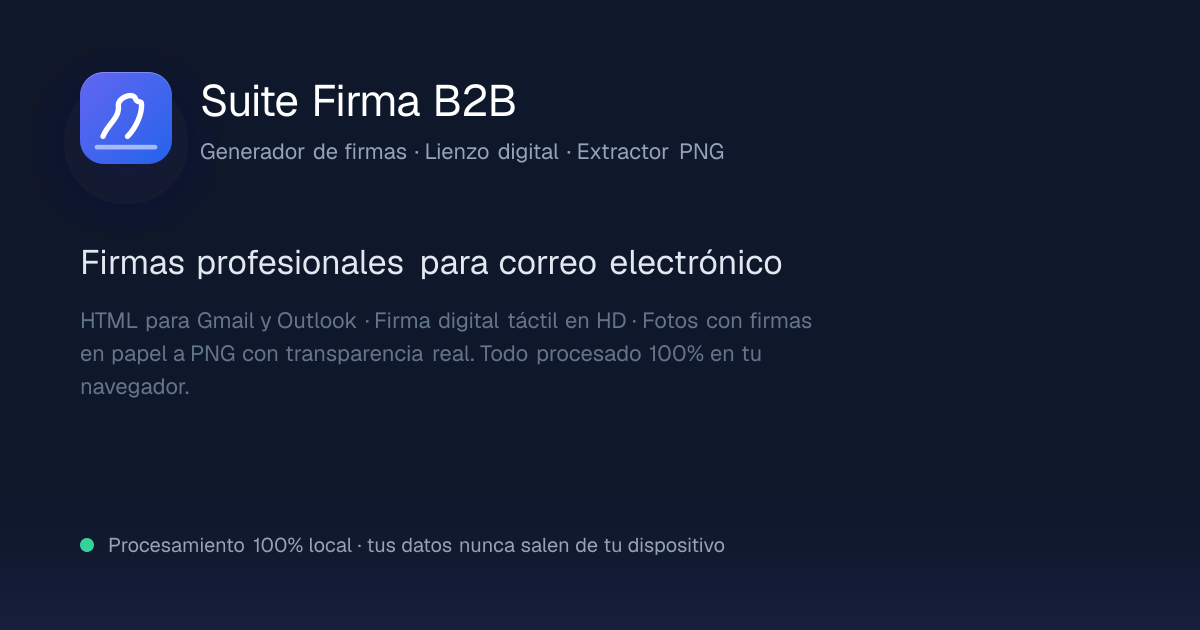
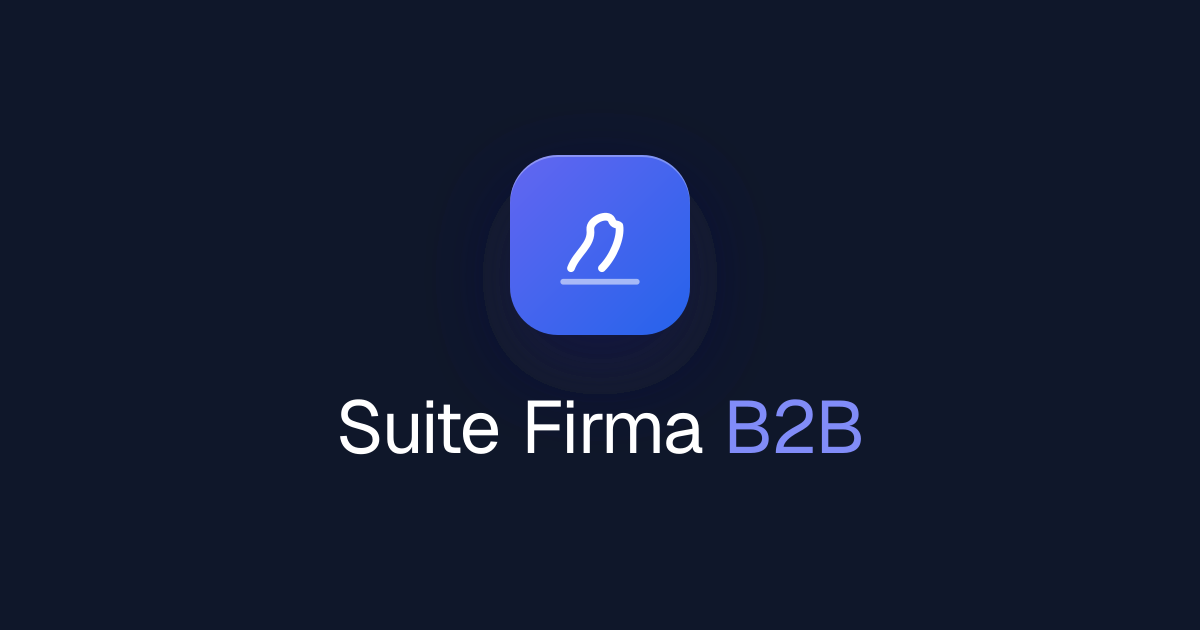
feat: tarjeta OG centrada con isotipo grande y título legible para WhatsApp

diff --git a/app/og.png/route.tsx b/app/og.png/route.tsx
@@ -3,27 +3,6 @@ import { ImageResponse } from "next/og";
 export const runtime = "nodejs";
 export const dynamic = "force-static";
 
-const Swoosh = (
-  <svg viewBox="0 0 120 120" width={92} height={92}>
-    <path
-      d="M30 84 C 36 68, 52 60, 50 44 C 49 34, 68 26, 72 34 C 74 40, 78 38, 80 40 C 82 52, 74 72, 62 84"
-      fill="none"
-      stroke="#ffffff"
-      strokeWidth={7}
-      strokeLinecap="round"
-      strokeLinejoin="round"
-    />
-    <path
-      d="M22 98 L 98 98"
-      fill="none"
-      stroke="#ffffff"
-      strokeOpacity={0.55}
-      strokeWidth={6}
-      strokeLinecap="round"
-    />
-  </svg>
-);
-
 export function GET() {
   return new ImageResponse(
     (
@@ -33,9 +12,10 @@ export function GET() {
           height: "100%",
           display: "flex",
           position: "relative",
+          flexDirection: "column",
+          alignItems: "center",
+          justifyContent: "center",
           backgroundColor: "#0f172a",
-          color: "#e2e8f0",
-          fontFamily: "sans-serif",
         }}
       >
         <div
@@ -43,110 +23,79 @@ export function GET() {
             position: "absolute",
             inset: 0,
             background:
-              "linear-gradient(180deg, rgba(99,102,241,0.18), transparent 45%), linear-gradient(90deg, rgba(37,99,235,0.1), transparent 60%)",
+              "radial-gradient(640px 340px at 50% 18%, rgba(99,102,241,0.22), transparent 72%)",
           }}
         />
         <div
           style={{
             position: "absolute",
-            left: 0,
-            right: 0,
-            bottom: 0,
-            height: 190,
+            inset: 0,
             background:
-              "linear-gradient(180deg, transparent, rgba(99,102,241,0.10))",
+              "linear-gradient(180deg, rgba(2,6,23,0.5), transparent 38%, transparent 72%, rgba(2,6,23,0.55))",
           }}
         />
         <div
           style={{
+            position: "absolute",
+            inset: 0,
+            background:
+              "linear-gradient(90deg, rgba(2,6,23,0.5), transparent 30%, transparent 70%, rgba(2,6,23,0.5))",
+          }}
+        />
+
+        <div
+          style={{
             display: "flex",
             flexDirection: "column",
-            justifyContent: "space-between",
-            width: "100%",
-            padding: "72px 80px",
+            alignItems: "center",
+            justifyContent: "center",
+            gap: 44,
             position: "relative",
           }}
         >
-          <div style={{ display: "flex", flexDirection: "row", gap: 28 }}>
-            <div
-              style={{
-                width: 92,
-                height: 92,
-                borderRadius: 24,
-                display: "flex",
-                alignItems: "center",
-                justifyContent: "center",
-                background: "linear-gradient(135deg, #6366f1, #2563eb)",
-                boxShadow:
-                  "0 24px 60px rgba(30,27,75,0.6), inset 0 1px 0 rgba(255,255,255,0.25)",
-              }}
-            >
-              {Swoosh}
-            </div>
-            <div
-              style={{ display: "flex", flexDirection: "column", gap: 8 }}
-            >
-              <div
-                style={{
-                  fontSize: 44,
-                  fontWeight: 800,
-                  color: "#ffffff",
-                  letterSpacing: -1,
-                }}
-              >
-                Suite Firma B2B
-              </div>
-              <div style={{ fontSize: 22, color: "#94a3b8" }}>
-                Generador de firmas · Lienzo digital · Extractor PNG
-              </div>
-            </div>
-          </div>
-
           <div
             style={{
+              width: 180,
+              height: 180,
+              borderRadius: 48,
               display: "flex",
-              flexDirection: "column",
-              gap: 20,
-              maxWidth: 760,
-            }}
-          >
-            <div
-              style={{
-                fontSize: 34,
-                fontWeight: 700,
-                color: "#e2e8f0",
-              }}
-            >
-              Firmas profesionales para correo electrónico
-            </div>
-            <div style={{ fontSize: 22, color: "#64748b", lineHeight: 1.5 }}>
-              HTML para Gmail y Outlook · Firma digital táctil en HD · Fotos
-              con firmas en papel a PNG con transparencia real. Todo procesado
-              100% en tu navegador.
-            </div>
-          </div>
-
-          <div
-            style={{
-              display: "flex",
-              flexDirection: "row",
               alignItems: "center",
-              gap: 14,
-              marginTop: 56,
+              justifyContent: "center",
+              background: "linear-gradient(135deg, #6366f1, #2563eb)",
+              boxShadow:
+                "0 32px 90px rgba(30,27,75,0.75), inset 0 2px 0 rgba(255,255,255,0.3)",
             }}
           >
-            <div
-              style={{
-                width: 14,
-                height: 14,
-                borderRadius: 999,
-                backgroundColor: "#34d399",
-              }}
-            />
-            <div style={{ fontSize: 20, color: "#94a3b8" }}>
-              Procesamiento 100% local · tus datos nunca salen de tu
-              dispositivo
-            </div>
+            <svg viewBox="0 0 120 120" width={116} height={116}>
+              <path
+                d="M30 84 C 36 68, 52 60, 50 44 C 49 34, 68 26, 72 34 C 74 40, 78 38, 80 40 C 82 52, 74 72, 62 84"
+                fill="none"
+                stroke="#ffffff"
+                strokeWidth={8}
+                strokeLinecap="round"
+                strokeLinejoin="round"
+              />
+              <path
+                d="M22 98 L 98 98"
+                fill="none"
+                stroke="#ffffff"
+                strokeOpacity={0.55}
+                strokeWidth={6}
+                strokeLinecap="round"
+              />
+            </svg>
+          </div>
+          <div
+            style={{
+              display: "flex",
+              fontSize: 74,
+              fontWeight: 800,
+              color: "#ffffff",
+              letterSpacing: -2,
+            }}
+          >
+            Suite Firma&nbsp;
+            <span style={{ color: "#818cf8" }}>B2B</span>
           </div>
         </div>
       </div>
